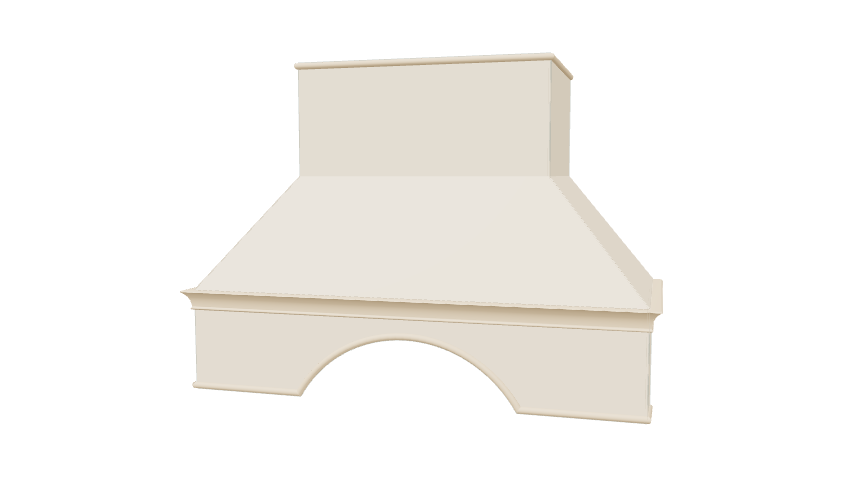
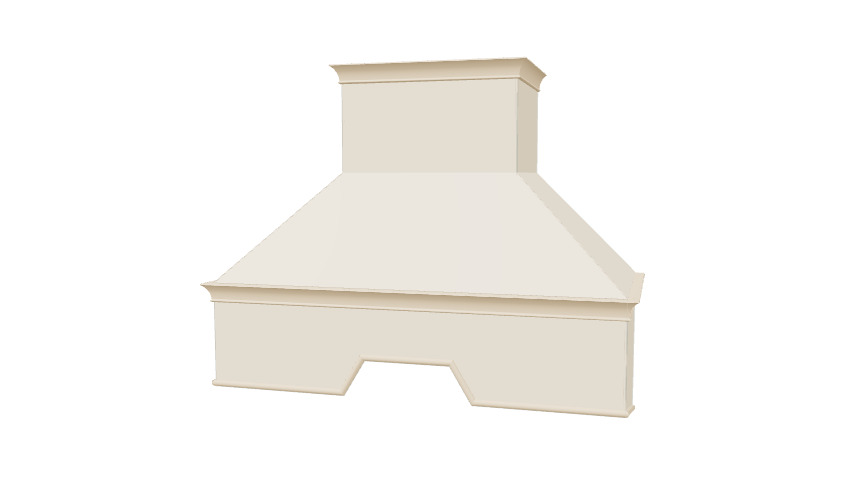
Replace home cases with new photos and tuned 3D models

Changed region(s): [[0.1866, 0.0907, 0.7776, 0.877]]

diff --git a/app.js b/app.js
@@ -16,43 +16,43 @@ const STYLES = [
   {
     id: "cloud", name: "云朵弧", tone: "暖米", desc: "钟形弧线 · 双层收边",
     curve: "concave", start: "middle",
-    dims: { hoodWidth: 1000, hoodDepth: 510, rearHeight: 390, frontHeight: 260, chimneyWidth: 400, chimneyDepth: 320, chimneyHeight: 760 },
+    dims: { hoodWidth: 1000, hoodDepth: 500, rearHeight: 390, frontHeight: 255, chimneyWidth: 500, chimneyDepth: 330, chimneyHeight: 680 },
     trims: { top: "corner", start: "single", hoodTop: "corner", hoodBottom: "single" },
-    notch: { shape: "arch", width: 300, height: 60, offset: 0 },
+    notch: { shape: "rounded", width: 300, height: 60, offset: 0 },
   },
   {
     id: "tall", name: "高窄弧", tone: "暖米", desc: "窄身长弧 · 顶部起弧",
     curve: "concave", start: "top",
-    dims: { hoodWidth: 780, hoodDepth: 470, rearHeight: 470, frontHeight: 300, chimneyWidth: 260, chimneyDepth: 280, chimneyHeight: 980 },
+    dims: { hoodWidth: 800, hoodDepth: 470, rearHeight: 380, frontHeight: 260, chimneyWidth: 280, chimneyDepth: 300, chimneyHeight: 500 },
     trims: { top: "corner", start: "none", hoodTop: "single", hoodBottom: "single" },
-    notch: { shape: "arch", width: 320, height: 70, offset: 0 },
+    notch: { shape: "arch", width: 340, height: 90, offset: 0 },
   },
   {
     id: "line", name: "直边塔", tone: "暖米", desc: "直边收分 · 单线压顶",
     curve: "flat", start: "middle",
-    dims: { hoodWidth: 920, hoodDepth: 500, rearHeight: 410, frontHeight: 260, chimneyWidth: 360, chimneyDepth: 310, chimneyHeight: 660 },
+    dims: { hoodWidth: 940, hoodDepth: 500, rearHeight: 330, frontHeight: 220, chimneyWidth: 480, chimneyDepth: 330, chimneyHeight: 620 },
     trims: { top: "corner", start: "single", hoodTop: "single", hoodBottom: "single" },
-    notch: { shape: "arch", width: 360, height: 60, offset: 0 },
+    notch: { shape: "trapezoid", width: 340, height: 60, offset: 0 },
   },
   {
     id: "arch", name: "圆顶拱", tone: "暖米", desc: "圆顶外凸 · 大弧口",
-    curve: "convex", start: "lowest",
-    dims: { hoodWidth: 1080, hoodDepth: 530, rearHeight: 380, frontHeight: 280, chimneyWidth: 440, chimneyDepth: 340, chimneyHeight: 420 },
-    trims: { top: "none", start: "none", hoodTop: "single", hoodBottom: "single" },
-    notch: { shape: "arch", width: 600, height: 150, offset: 0 },
+    curve: "concave", start: "top",
+    dims: { hoodWidth: 840, hoodDepth: 480, rearHeight: 400, frontHeight: 280, chimneyWidth: 300, chimneyDepth: 310, chimneyHeight: 520 },
+    trims: { top: "corner", start: "none", hoodTop: "corner", hoodBottom: "single" },
+    notch: { shape: "arch", width: 460, height: 120, offset: 0 },
   },
   {
     id: "crown", name: "宽方冠", tone: "暖米", desc: "宽肩方冠 · 台阶压顶",
     curve: "flat", start: "middle",
-    dims: { hoodWidth: 1060, hoodDepth: 520, rearHeight: 360, frontHeight: 240, chimneyWidth: 600, chimneyDepth: 400, chimneyHeight: 560 },
-    trims: { top: "single", start: "none", hoodTop: "corner", hoodBottom: "single" },
-    notch: { shape: "arch", width: 520, height: 150, offset: 0 },
+    dims: { hoodWidth: 1000, hoodDepth: 510, rearHeight: 390, frontHeight: 260, chimneyWidth: 440, chimneyDepth: 330, chimneyHeight: 560 },
+    trims: { top: "corner", start: "none", hoodTop: "corner", hoodBottom: "single" },
+    notch: { shape: "trapezoid", width: 320, height: 90, offset: 0 },
   },
   {
     id: "float", name: "极简方盒", tone: "暖米", desc: "无侧面 · 干净直边",
     curve: "none", start: "middle",
-    dims: { hoodWidth: 1080, hoodDepth: 520, rearHeight: 320, frontHeight: 220, chimneyWidth: 600, chimneyDepth: 390, chimneyHeight: 580 },
-    trims: { top: "none", start: "none", hoodTop: "single", hoodBottom: "single" },
+    dims: { hoodWidth: 1000, hoodDepth: 500, rearHeight: 300, frontHeight: 220, chimneyWidth: 620, chimneyDepth: 380, chimneyHeight: 680 },
+    trims: { top: "corner", start: "none", hoodTop: "single", hoodBottom: "single" },
     notch: { enabled: false, shape: "rect", width: 260, height: 50, offset: 90 },
   },
 ];
@@ -60,12 +60,12 @@ const STYLES = [
 // 首页案例：大图先用原来的 3D 渲染占位，之后换成 AI 实景图。
 // model 是右下角「3D 模型」小图；这里指向带独立豁口/比例的新模型。
 const HOME_CASES = [
-  { styleId: "cloud", name: "法式云朵弧", image: "assets/styles/cloud.png", model: "assets/models/cloud.png", fit: "contain" },
-  { styleId: "tall", name: "法式高窄弧", image: "assets/styles/tall.png", model: "assets/models/tall.png", fit: "contain" },
-  { styleId: "line", name: "法式直边塔", image: "assets/styles/line.png", model: "assets/models/line.png", fit: "contain" },
-  { styleId: "arch", name: "法式圆顶拱", image: "assets/styles/arch.png", model: "assets/models/arch.png", fit: "contain" },
-  { styleId: "crown", name: "法式宽方冠", image: "assets/styles/crown.png", model: "assets/models/crown.png", fit: "contain" },
-  { styleId: "float", name: "法式极简方盒", image: "assets/styles/float.png", model: "assets/models/float.png", fit: "contain" },
+  { styleId: "cloud", name: "法式云朵弧", image: "assets/styles/cloud.jpg", model: "assets/models/cloud.png", fit: "cover" },
+  { styleId: "line", name: "法式直边塔", image: "assets/styles/line.jpg", model: "assets/models/line.png", fit: "cover" },
+  { styleId: "tall", name: "法式高窄弧", image: "assets/styles/tall.jpg", model: "assets/models/tall.png", fit: "cover" },
+  { styleId: "arch", name: "法式圆顶拱", image: "assets/styles/arch.jpg", model: "assets/models/arch.png", fit: "cover" },
+  { styleId: "crown", name: "法式宽方冠", image: "assets/styles/crown.jpg", model: "assets/models/crown.png", fit: "cover" },
+  { styleId: "float", name: "法式极简方盒", image: "assets/styles/float.jpg", model: "assets/models/float.png", fit: "cover" },
 ];
 // 3D 小图的全局兜底；每个案例自己的 model 优先。
 let HOME_3D_IMAGE = "";

diff --git a/index.html b/index.html
@@ -29,7 +29,7 @@
             <button class="case-3d" id="case3d" type="button" aria-label="查看 3D 模型">
               <span class="case-3d-viewport" aria-hidden="true">
                 <span class="case-3d-flipper">
-                  <img class="case-3d-face case-3d-front" src="assets/styles/cloud.png" alt="" draggable="false" />
+                  <img class="case-3d-face case-3d-front" src="assets/models/cloud.png" alt="" draggable="false" />
                   <img class="case-3d-face case-3d-back" alt="" draggable="false" />
                 </span>
                 <span class="case-3d-canvas" id="case3dCanvas"></span>
